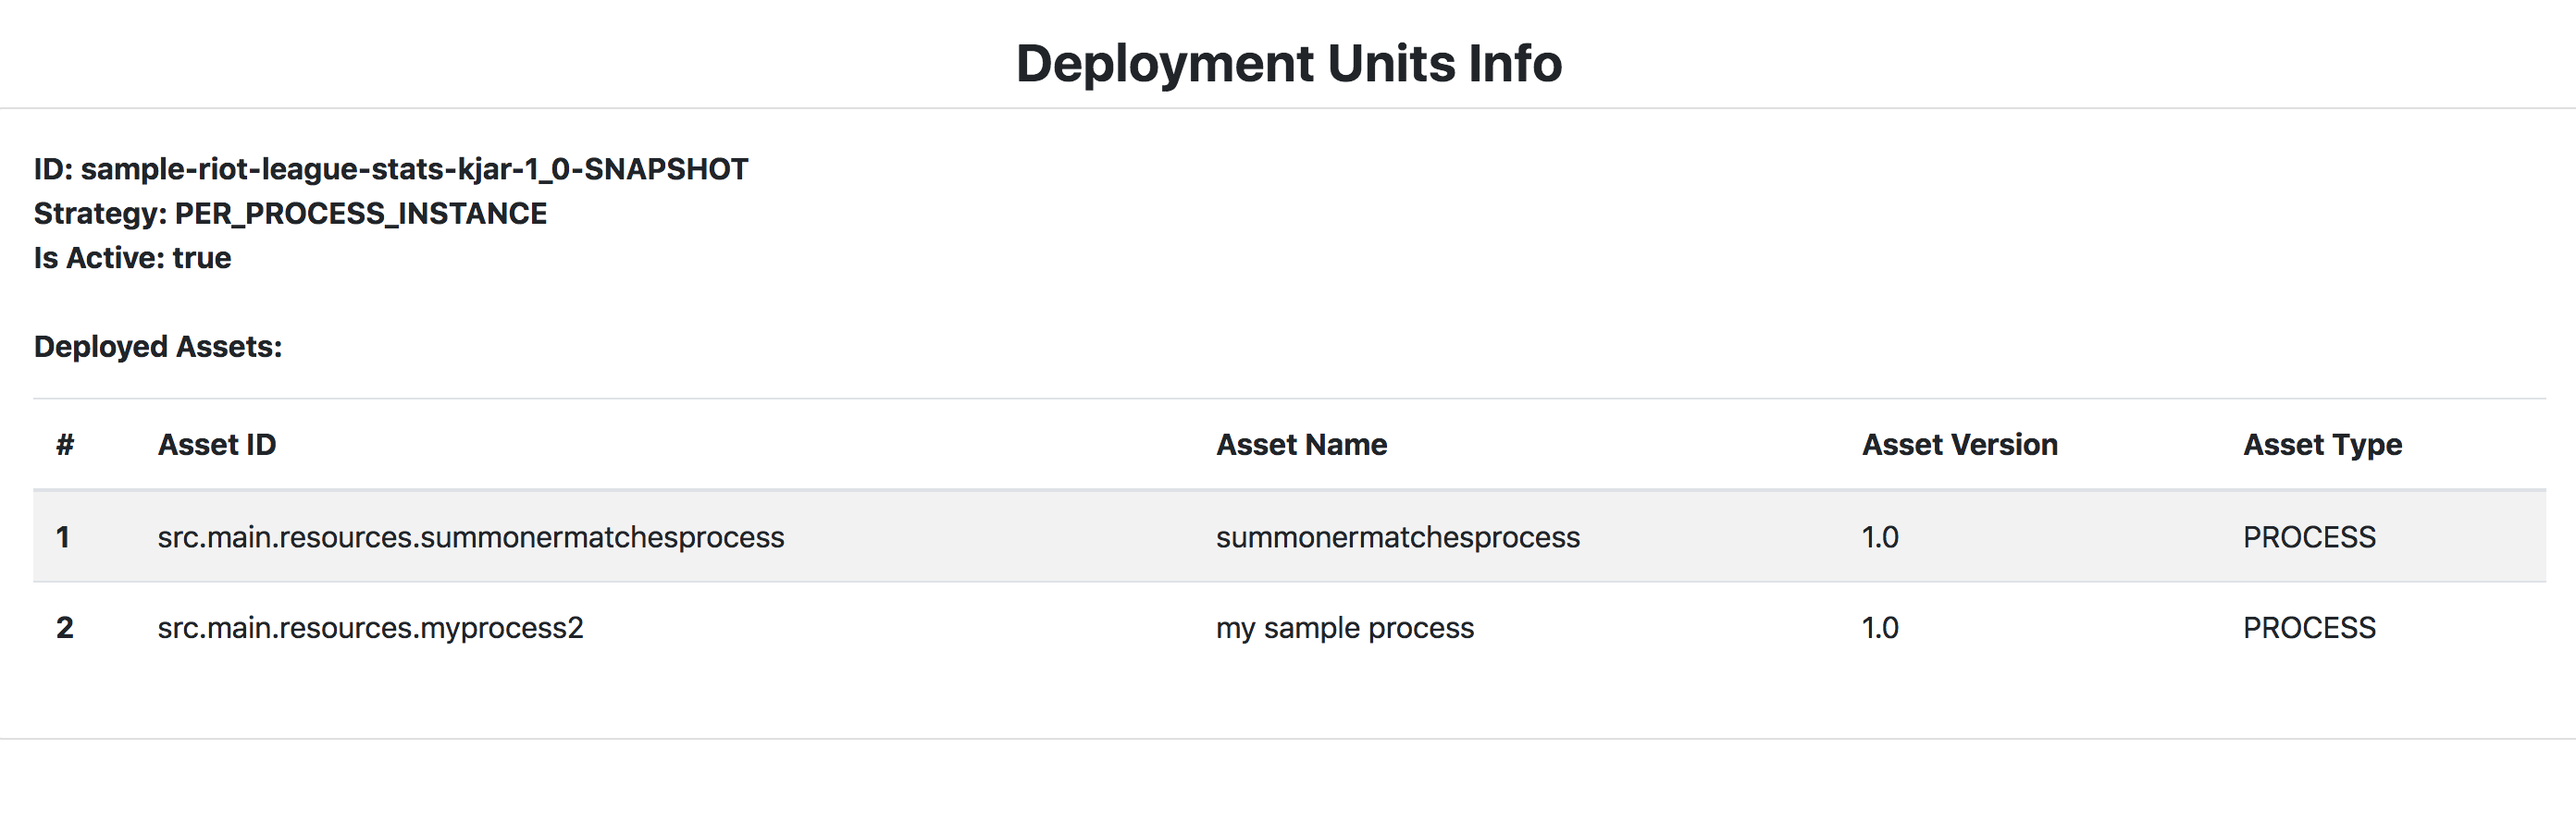
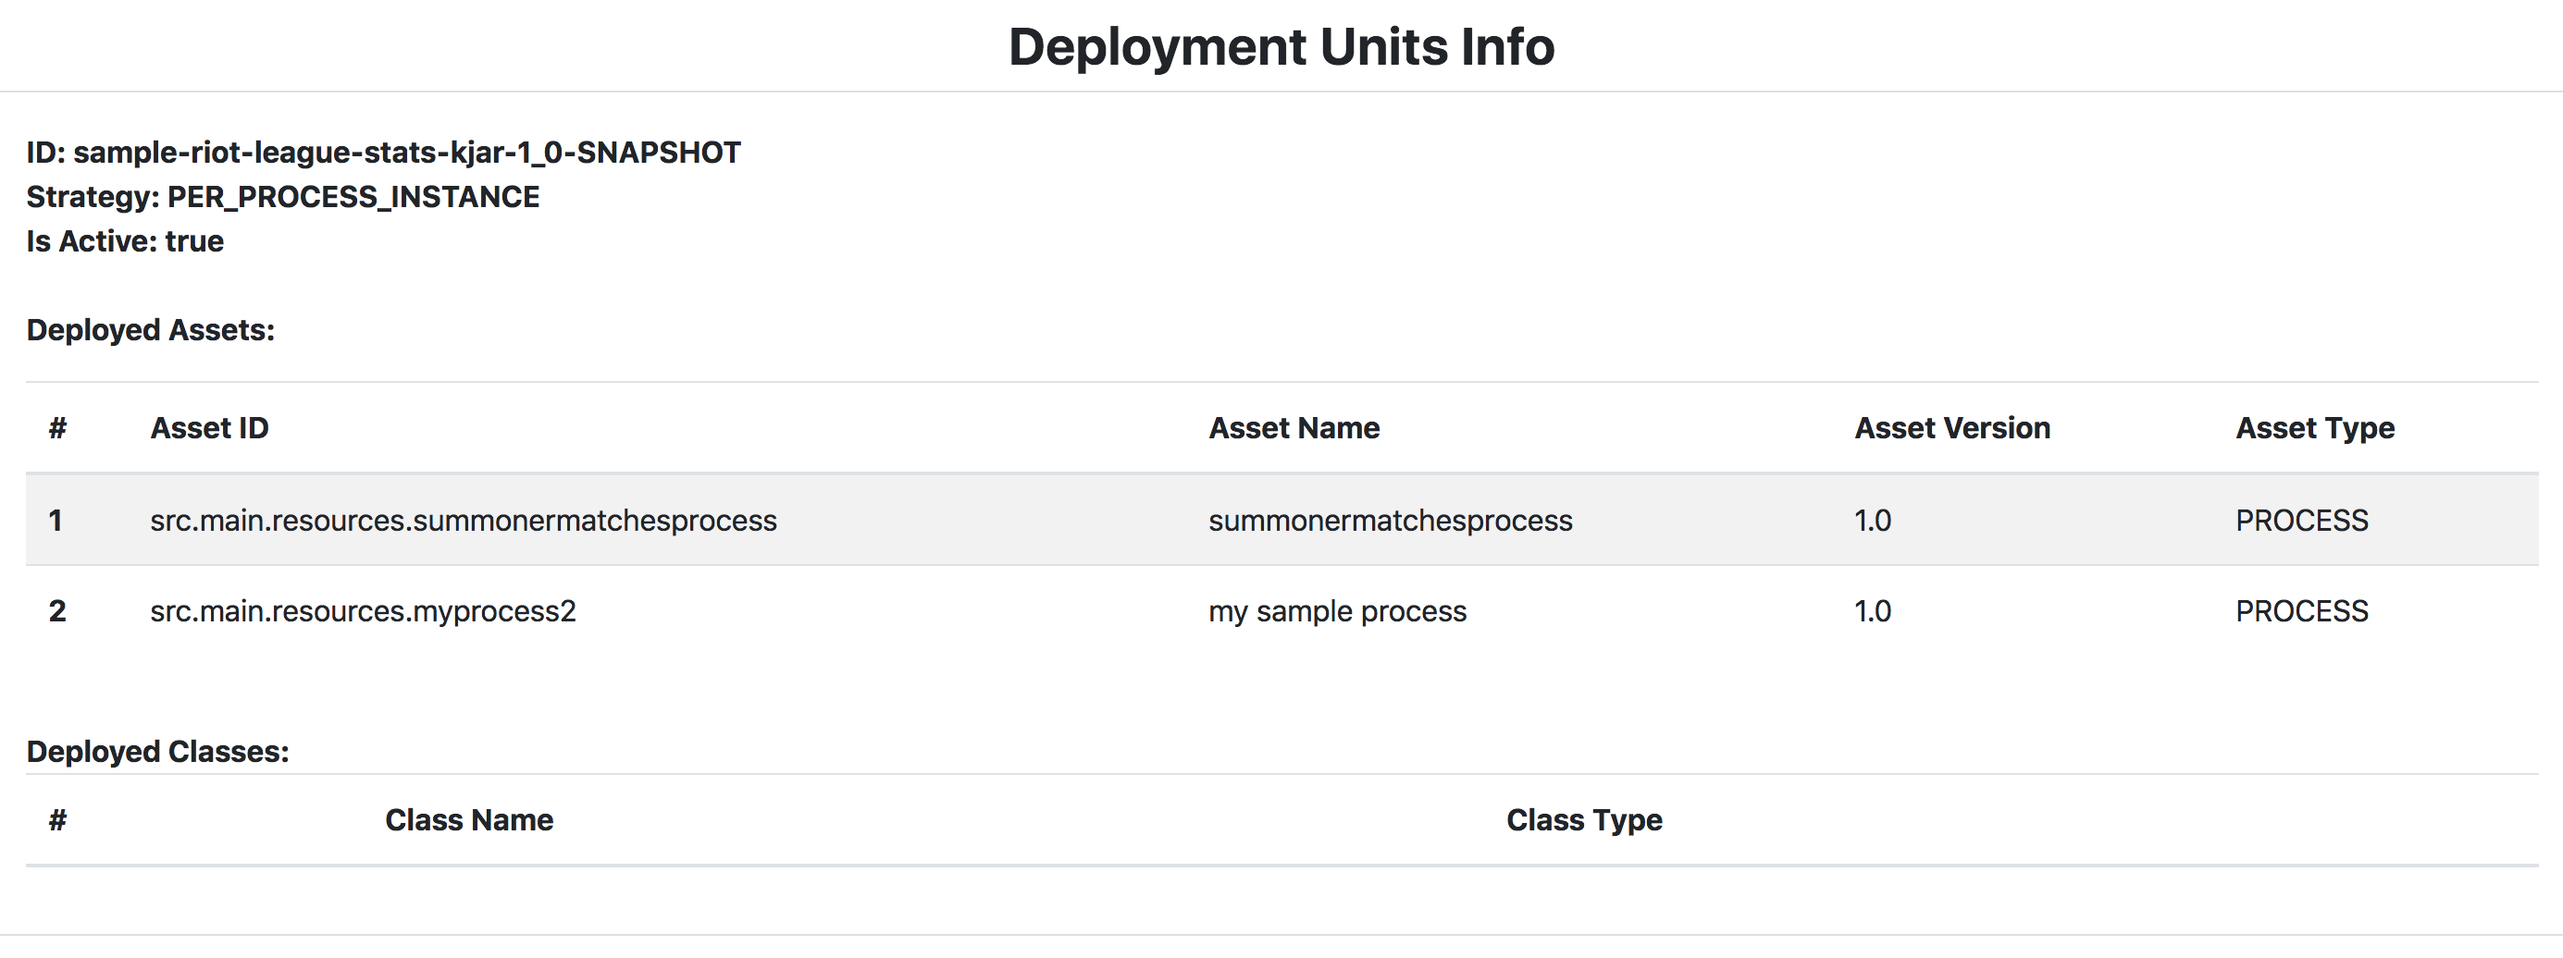
update readme

diff --git a/src/main/resources/templates/kieserverdialect.html b/src/main/resources/templates/kieserverdialect.html
@@ -82,23 +82,23 @@
                             </tr>
                             </tbody>
                         </table>
-                        <!--<br/><strong>Deployed Classes: </strong>-->
-                        <!--<table class="table table-striped">-->
-                            <!--<thead>-->
-                            <!--<tr>-->
-                                <!--<th scope="col">#</th>-->
-                                <!--<th scope="col">Class Name</th>-->
-                                <!--<th scope="col">Class Type</th>-->
-                            <!--</tr>-->
-                            <!--</thead>-->
-                            <!--<tbody>-->
-                            <!--<tr th:each="dunitclass: ${dunit.getDeployedClasses()}">-->
-                                <!--<th scope="row" th:text="${dunitclassStat.count}"/>-->
-                                <!--<td th:text="${dunitclass.getName()}"/>-->
-                                <!--<td th:text="${dunitclass.getTypeName()}"/>-->
-                            <!--</tr>-->
-                            <!--</tbody>-->
-                        <!--</table>-->
+                        <br/><strong>Deployed Classes: </strong>
+                        <table class="table table-striped">
+                            <thead>
+                            <tr>
+                                <th scope="col">#</th>
+                                <th scope="col">Class Name</th>
+                                <th scope="col">Class Type</th>
+                            </tr>
+                            </thead>
+                            <tbody>
+                            <tr th:each="dunitclass: ${dunit.getDeployedClasses()}">
+                                <th scope="row" th:text="${dunitclassStat.count}"/>
+                                <td th:text="${dunitclass.getName()}"/>
+                                <td th:text="${dunitclass.getTypeName()}"/>
+                            </tr>
+                            </tbody>
+                        </table>
                     </p>
                 </div>
             </div>
